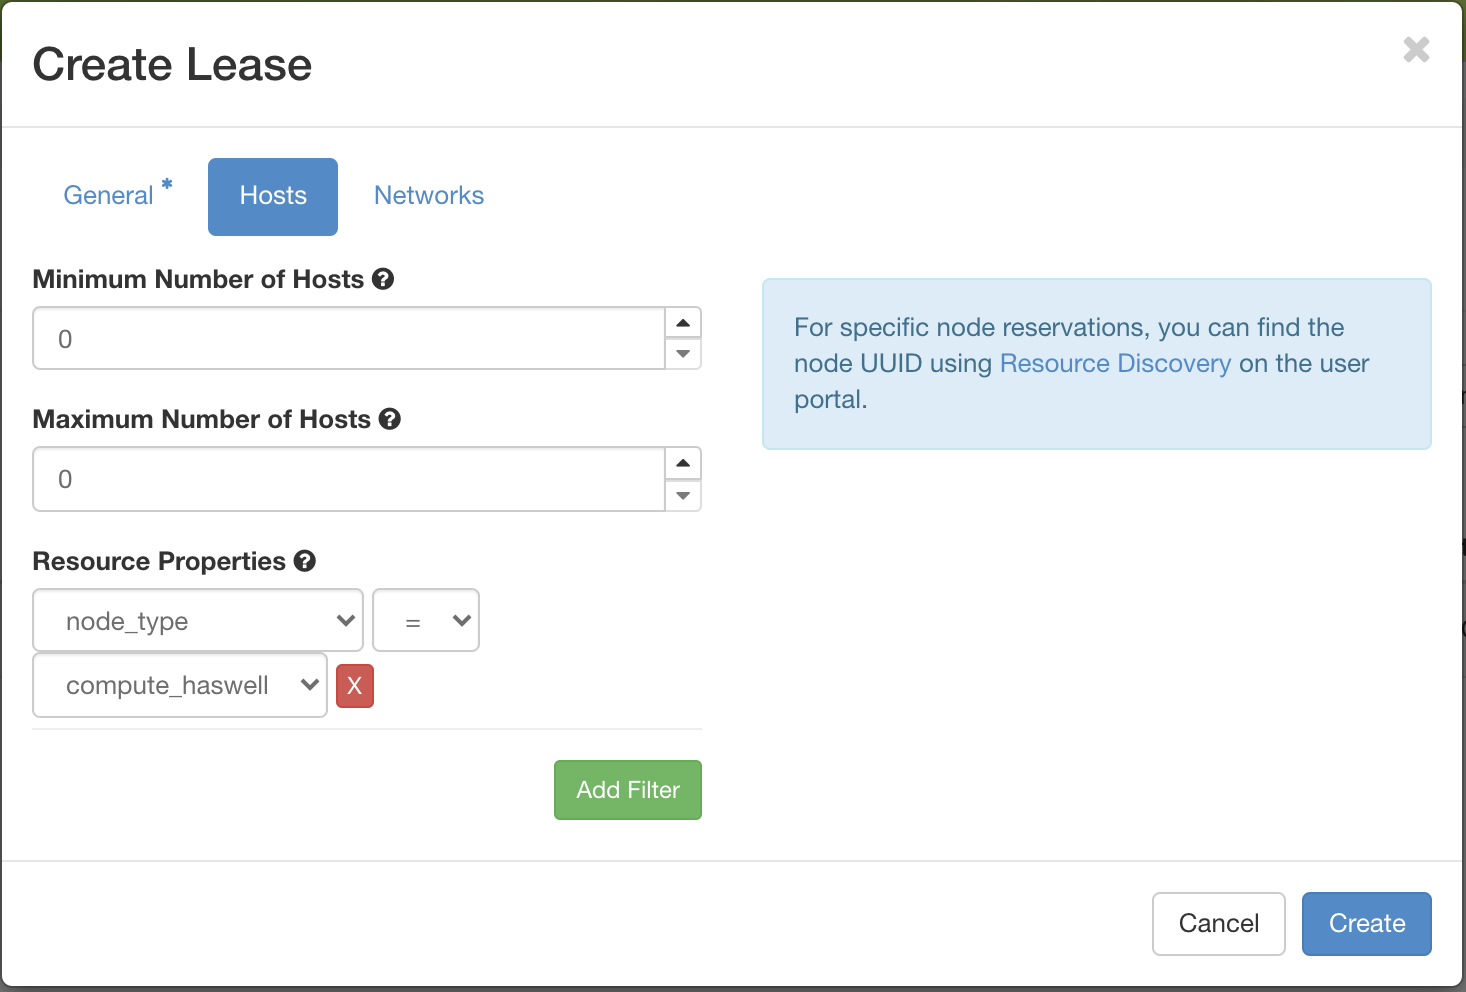
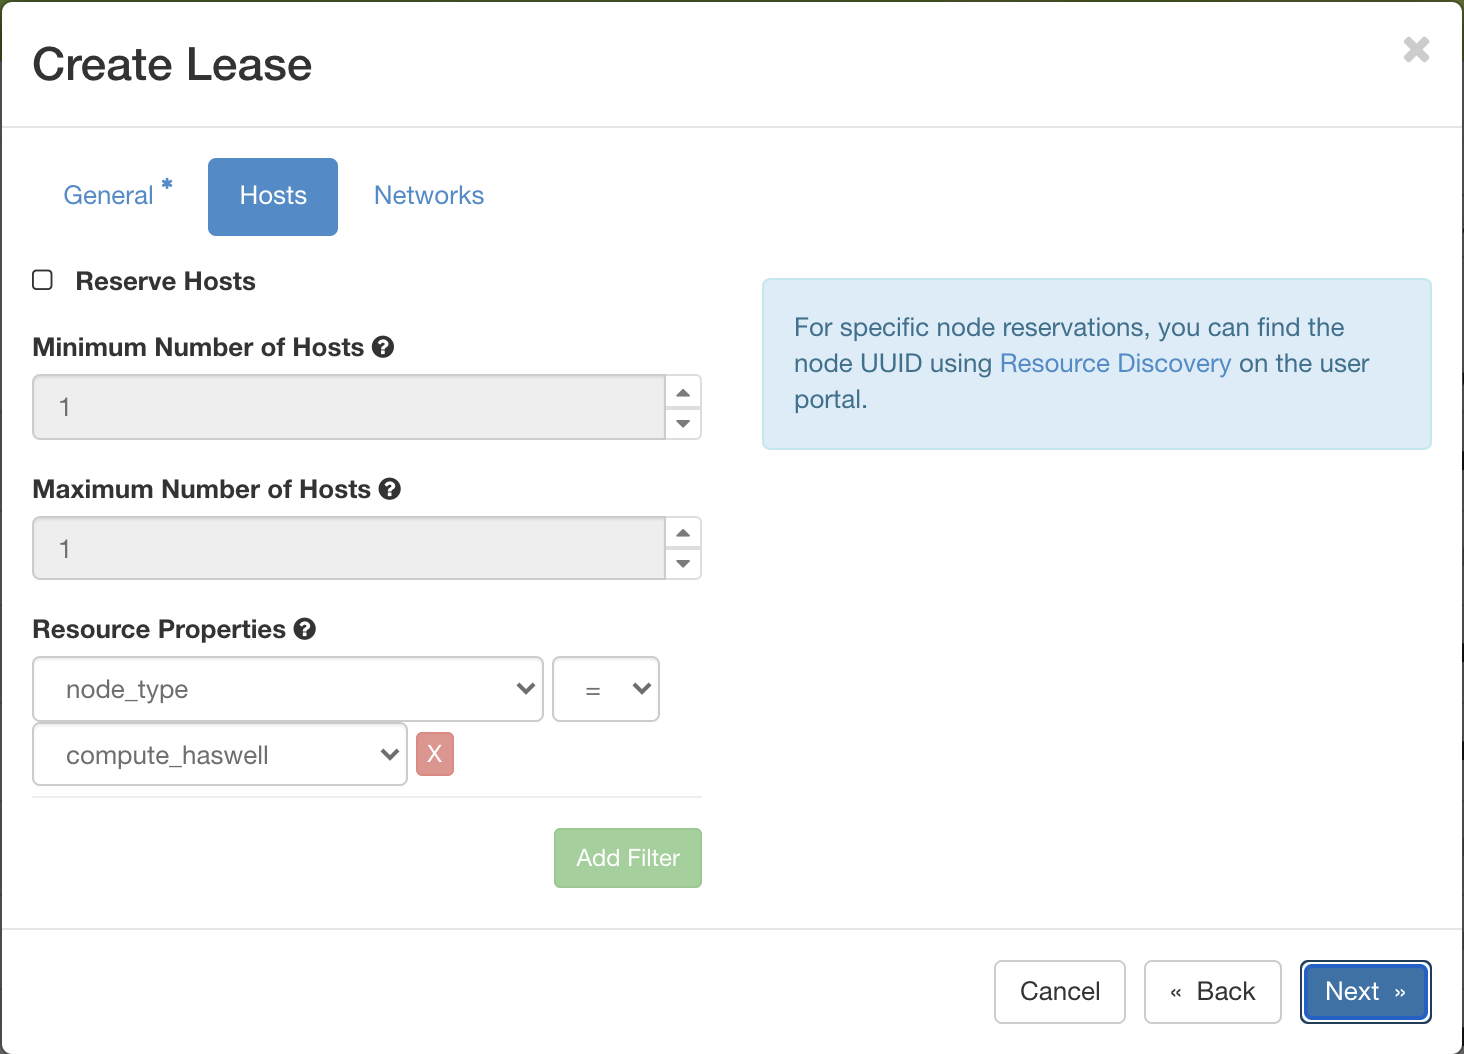
[reservation] update creating and updating lease GUI

diff --git a/source/technical/reservations.rst b/source/technical/reservations.rst
@@ -96,15 +96,17 @@ up the window displayed below:
 	
 	   The Create Lease dialog Host reservation tab
 
-#. Choose the minimum and maximum number of hosts.
+    a. Check "Reserve Hosts".
 
-#. Choose a node type in the drop down menu below the *node_type* and *=* drop down lists.
+    b. Choose the minimum and maximum number of hosts.
 
-   .. note::
+    c. Choose a node type in the drop down menu below the *node_type* and *=* drop down lists.
 
-      You may only request one type of node in each individual lease. If you
-      wish to request multiple node types, you must create separate Leases for
-      each node type.
+       .. note::
+
+          You may only request one type of node in each individual lease. If you
+          wish to request multiple node types, you must create separate Leases for
+          each node type.
 
 #. To reserve a vlan segment, navigate to the "Networks" tab.
 
@@ -113,19 +115,24 @@ up the window displayed below:
 	
 	   The Create Lease dialog Network reservation tab
 
-#. Enter the network name and description
+    a. Check "Reserve Network"
 
-    .. note::
+    b. Enter the network name and description
 
-       When a VLAN segment reservation ends, all Neutron resources attached to
-       the network will be automatically deleted. Bare metal instances using the
-       network will lose network connectivity.
+        .. note::
 
-   .. tip::
+           When a VLAN segment reservation ends, all Neutron resources attached to
+           the network will be automatically deleted. Bare metal instances using the
+           network will lose network connectivity.
 
-      Network name is required when reserving VLAN segment.
+        .. tip::
 
-#. Choose the number of floating IPs.
+           Network name is required when reserving VLAN segment.
+
+#. To reserve floating IPs, navigate to the "Networks" tab.
+
+    a. Check "Reserve Floating IPs".
+    b. Choose the number of floating IPs.
 
 #. Click on the *Create* button.
 
@@ -202,13 +209,13 @@ To change the number of nodes of a lease, click on the *Update Lease* button in
 *Actions* column.
 
 .. figure:: reservations/updateleasenodecount.png
-   :alt: The Update Lease Parameters dialog, changing the number of reserved
-   nodes
+   :alt: The Update Lease Parameters dialog, changing the number of reserved nodes
 
    The Update Lease Parameters dialog, changing the number of reserved nodes
 
-Fill out the form by specifying the new minimum and maximum numbers of hosts.
-Then, click on the *Update* button to finish your request.
+
+Navigate to the "Hosts" tab,  and fill out the form by specifying the new minimum 
+and maximum numbers of hosts. Then, click on the *Update* button to finish your request.
 
 Reserving a Node by UUID
 ------------------------
